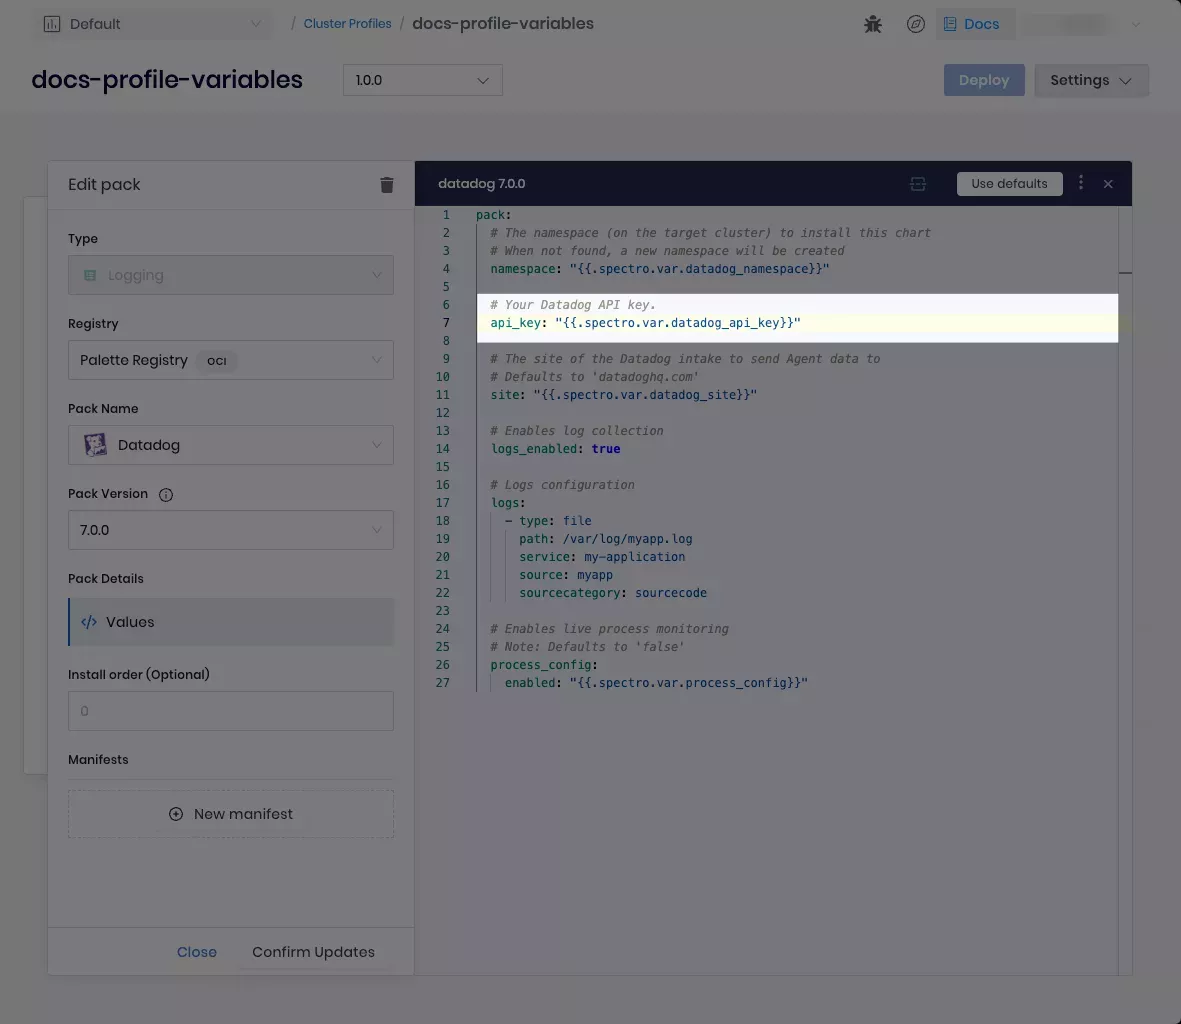
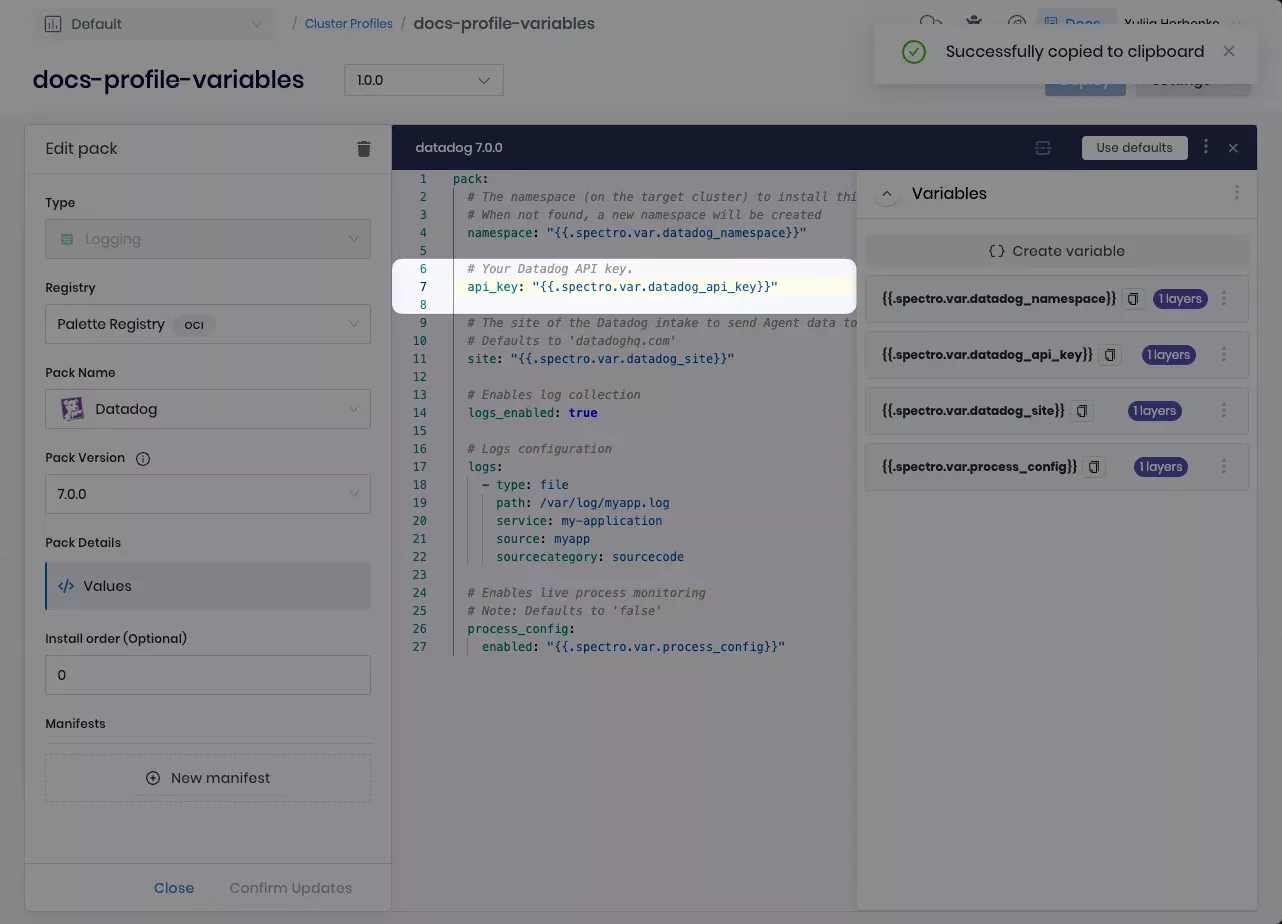
Update profile variables docs (#2729)
* docs: Interim on profile variable updates

* docs: Update the profile variables docs

* chore: Update image formats

* docs: Implement peer review

* Optimised images with calibre/image-actions

* Optimised images with calibre/image-actions

* chore: Fix formatting

---------

diff --git a/docs/docs-content/profiles/cluster-profiles/create-cluster-profiles/define-profile-variables.md b/docs/docs-content/profiles/cluster-profiles/create-cluster-profiles/define-profile-variables.md
@@ -67,8 +67,8 @@ This guide explains how you can define and manage cluster profile variables.
 ### Enablement
 
 You can define profile variables both while creating and for the already created cluster profiles. To define profile
-variables [while creating a cluster profile](../create-cluster-profiles/create-cluster-profiles.md), start following
-this guide from step three at the **Profile Layers** stage of cluster profile creation.
+variables [while creating a cluster profile](../create-cluster-profiles/create-cluster-profiles.md), you need to be at
+the **Profile Layers** stage of cluster profile creation and start following this guide from step three.
 
 1.  Log in to Palette.
 
@@ -77,6 +77,13 @@ this guide from step three at the **Profile Layers** stage of cluster profile cr
 3.  In the upper-right corner, click **Variables** and, on the **Profile variables** pane, click **Create variable**.
 
     ![Palette with the Variables button highlighted.](/profiles_create-cluster-profiles_define-profile-variables_open-profile-variables.webp)
+
+    :::tip
+
+    Alternatively, open a profile layer and, in the upper-right corner of its YAML configuration editor, select
+    **Variables**, and then **Create variable**.
+
+    :::
 
 4.  Enter the variable name in the `{{.spectro.var.<variable_name>}}` format. You will use this name when adding
     variables to layer configurations. The name must be unique within the parent cluster.
@@ -115,12 +122,14 @@ this guide from step three at the **Profile Layers** stage of cluster profile cr
 
     :::
 
-9.  Click **Create**.
+9.  Review the variable definition and behavior under **Preview**, and then select **Create**.
 
-10. On the **Profile variables** pane, next to your variable, click the **Copy to clipboard** icon to copy the variable
-    name.
+    ![Palette YAML editor with the added profile variables.](/profiles_create-cluster-profiles_define-profile-variables_variable-preview.webp)
 
-11. Navigate to the YAML configuration of the profile layer for which you want to add the variable.
+10. Navigate to the YAML configuration of the profile layer for which you want to add the variable. In the upper-right
+    corner of its YAML configuration editor, select **Variables**.
+
+11. Next to the variable you want to add, click the **Copy to clipboard** icon to copy its name.
 
 12. Paste the variable in the `parameter: "{{.spectro.var.variable_name}}"` format and click **Confirm Updates**.
 
@@ -128,6 +137,14 @@ this guide from step three at the **Profile Layers** stage of cluster profile cr
     profile variables that you can autocomplete.
 
     ![Palette YAML editor with the added profile variables.](/profiles_create-cluster-profiles_define-profile-variables_add-vars-to-yaml.webp)
+
+    :::tip
+
+    To improve navigation, you can change the display order of variables. Select the **Variables three-dot menu**, then
+    select **Reorder variables**, and drag and drop variables to change their display order. Finally, select **Confirm
+    order**.
+
+    :::
 
 13. Repeat the steps described in this guide to define more variables and add them to the necessary cluster profile
     layers.
@@ -142,7 +159,9 @@ this guide from step three at the **Profile Layers** stage of cluster profile cr
 3. In the upper-right corner, click **Variables** and, on the **Profile variables** pane, check that the necessary
    variables are defined.
 
-4. Open the necessary profile layers and check that their YAML configuration contains the expected variables.
+4. Hover over the **[Count] layers** pill next to the variables to review the profile layers where they are used.
+
+5. Open the necessary profile layers and check that their YAML configuration contains the expected variables.
 
 ## Manage Profile Variables
 
@@ -166,16 +185,21 @@ variables in the new version.
 
 1. Log in to Palette.
 
-2. Navigate to the cluster profile for which you want to update profile variables.
+2. Navigate to the cluster profile for which you want to update profile variables and, in the upper-right corner, click
+   **Variables**.
 
-3. In the upper-right corner, click **Variables**.
+   :::tip
 
-4. To edit a profile variable, in the right **Three-dot menu** of the necessary variable, click **Edit** and make the
-   necessary changes. Note that you cannot edit the **Variable**, **Format**, **Custom input validation**, **Required**,
-   **Mask value**, and **Read-only** fields.
+   Alternatively, open a profile layer and, in the upper-right corner of its YAML configuration editor, select
+   **Variables**.
 
-5. To delete a profile variable, in the right **Three-dot menu** of the necessary variable, click **Delete**. Then,
-   navigate to the profile layers that implement this variable and manually remove it from their YAML configurations.
+   :::
+
+3. To edit a profile variable, in the **three-dot menu** of the necessary variable, select **Edit** and make the
+   necessary changes.
+
+4. To delete a profile variable, navigate to the profile layers that implement this variable and remove it from their
+   YAML configuration. Then, in the **three-dot menu** of the necessary variable, select **Delete**.
 
 ### Validation
 
